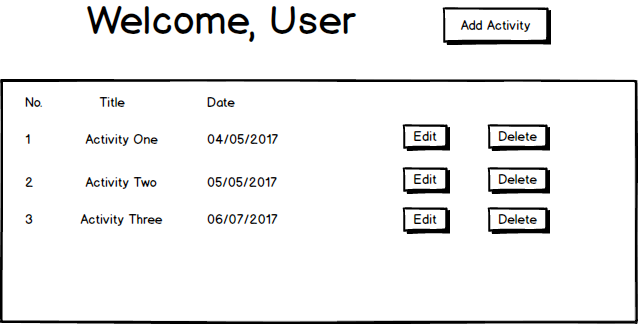
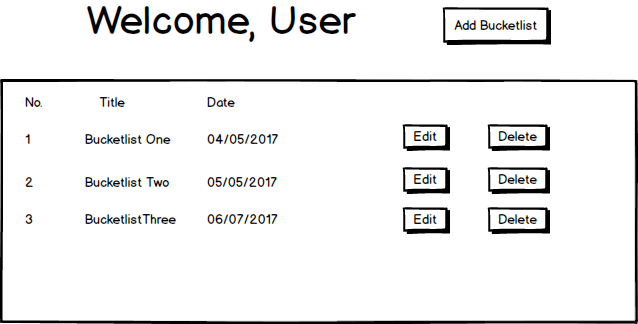
Modify UI's and wireframes for better app functionality

diff --git a/UI/add_bucketlist.html b/UI/add_bucketlist.html
@@ -18,31 +18,29 @@
                         <li><a href="/profile">Profile</a></li>
                         <li><a href="/about">About</a></li>
                         <li><a href="/add_bucketlist">Bucketlists</a></li>
+                        <li class="pull-right"><a href="/logout">Log Out</a></li>
                     </ul>
                 </div>
             </div>
         </nav>
+        <!--form for add-activity page-->
         <div class="container">
-            <!--The Login Form-->
-            <div class="well login">
-                <h1>Log In</h1>
-                <form class="login">
-                    <div class="form-group">
-                        <label for="email">Username</label>
-                        <input type="email" class="form-control" id="usr">
+            <h1>Add a Bucketlist</h1>
+            <form class="activity">
+                <div class="form-group">
+                    <div class="col-xs-2">
+                        <label for="inputsm">Title</label>
+                        <input class="form-control input-sm" id="inputsm" type="text">
                     </div>
-                    <div class="form-group">
-                        <label for="pwd">Password:</label>
-                        <input type="password" class="form-control" id="pwd">
-                    </div>
-                    <div class="checkbox">
-                        <label><input type="checkbox"> Remember me</label>
-                    </div>
-                </form>
-                <button class="btn-info btn-lg">Log In</button>
-                <a href="/signup"> Or Sign Up</a>
-            </div>
-        </div>
+                </div>
+            </form>
+            <form>
+                <div class="form-group body">
+                    <label for="activity">Body</label>
+                    <textarea class="form-control" rows="5" id="comment"></textarea>
+                </div>
+            </form>
+            <button class="btn btn-lg btn-info btn-save">Save</button>
         </div>
         <script src="https://maxcdn.bootstrapcdn.com/bootstrap/3.3.7/js/bootstrap.min.js"></script>
     </body>

diff --git a/UI/profile.html b/UI/profile.html
@@ -15,6 +15,8 @@
                 <div id="navbar" class="collapse navbar-collapse">
                     <ul class="nav navbar-nav">
                         <li><a href="/about">About</a></li>
+                        <li><a href="/profile">Profile</a></li>
+                        <li><a href="/add_bucketlist">Bucketlists</a></li>
                         <li class="pull-right"><a href="/logout">Log Out</a></li>
                     </ul>
                 </div>
@@ -23,7 +25,10 @@
         <div class="container">
             <!--About Description-->
             <h1>Welcome, User.</h1>
-            <button class="btn btn-lg btn-info btn-profile">Add Activity</button>
+            <button class="btn btn-lg btn-info btn-profile">Add Bucketlist</button>
+            <div class="well">
+                <h4>Below are your Bucketlists. Click to view. If none, go ahead and create using the button on the right.</h4>
+            </div>
         </div>
         <script src="https://maxcdn.bootstrapcdn.com/bootstrap/3.3.7/js/bootstrap.min.js"></script>
     </body>

diff --git a/UI/signup.html b/UI/signup.html
@@ -16,9 +16,8 @@
                     <ul class="nav navbar-nav">
                         <li><a href="/">Home</a></li>
                         <li><a href="/profile">Profile</a></li>
+                        <li><a href="/add_bucketlist">Bucketlists</a></li>
                         <li><a href="/about">About</a></li>
-                        <li class="pull-right"><a href="/signup">Sign Up</a></li>
-                        <li class="pull-right"><a href="/login">Log In</a></li>
                     </ul>
                 </div>
             </div>
@@ -53,6 +52,7 @@
                     </div>
                 </form>
                 <button class="btn-info btn-lg">Sign Up</button>
+                <a href="/login"> Or Login</a>
             </div>
         </div>
         <script src="https://maxcdn.bootstrapcdn.com/bootstrap/3.3.7/js/bootstrap.min.js"></script>

diff --git a/UI/add_activity.html b/UI/add_activity.html
@@ -17,8 +17,8 @@
                         <li><a href="/">Home</a></li>
                         <li><a href="/profile">Profile</a></li>
                         <li><a href="/about">About</a></li>
-                        <li class="pull-right"><a href="/signup">Sign Up</a></li>
-                        <li class="pull-right"><a href="/login">Log In</a></li>
+                        <li><a href="/add_bucketlist">Bucketlists</a></li>
+                        <li class="pull-right"><a href="/logout">Log Out</a></li>
                     </ul>
                 </div>
             </div>

diff --git a/UI/about.html b/UI/about.html
@@ -15,6 +15,7 @@
                         <li><a href="/">Home</a></li>
                         <li><a href="/profile">Profile</a></li>
                         <li><a href="/about">About</a></li>
+                        <li><a href="/add_bucketlist">Bucketlists</a></li>
                         <li class="pull-right"><a href="/signup">Sign Up</a></li>
                         <li class="pull-right"><a href="/login">Log In</a></li>
                     </ul>

diff --git a/UI/style.css b/UI/style.css
@@ -19,6 +19,9 @@ form.sign-up {
     width: 350px;
     margin: 0 auto;
 }
+span {
+    font-size: 20px;
+}
 .login {
     width: 350px;
     margin: 0 auto;
